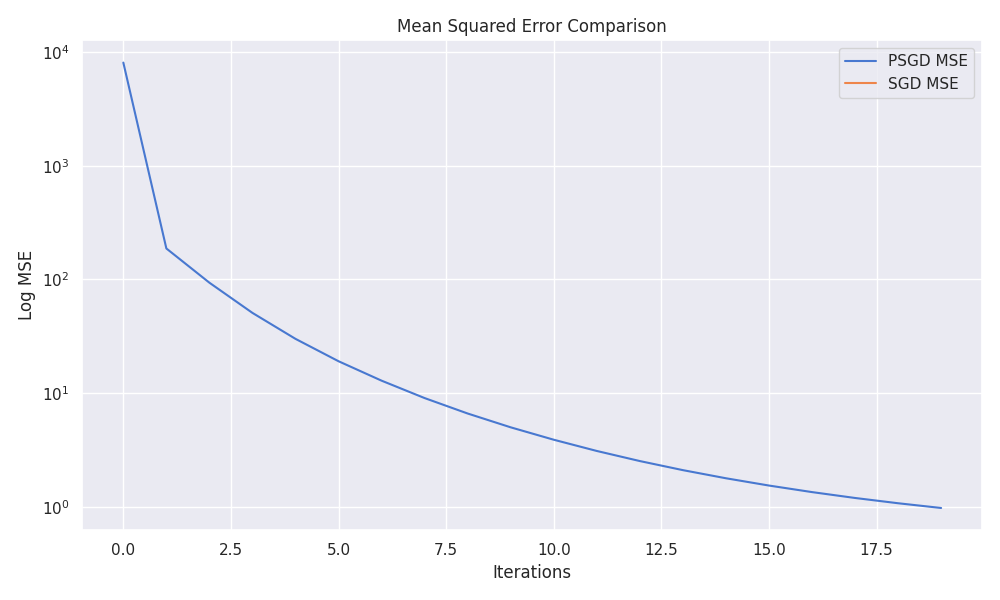
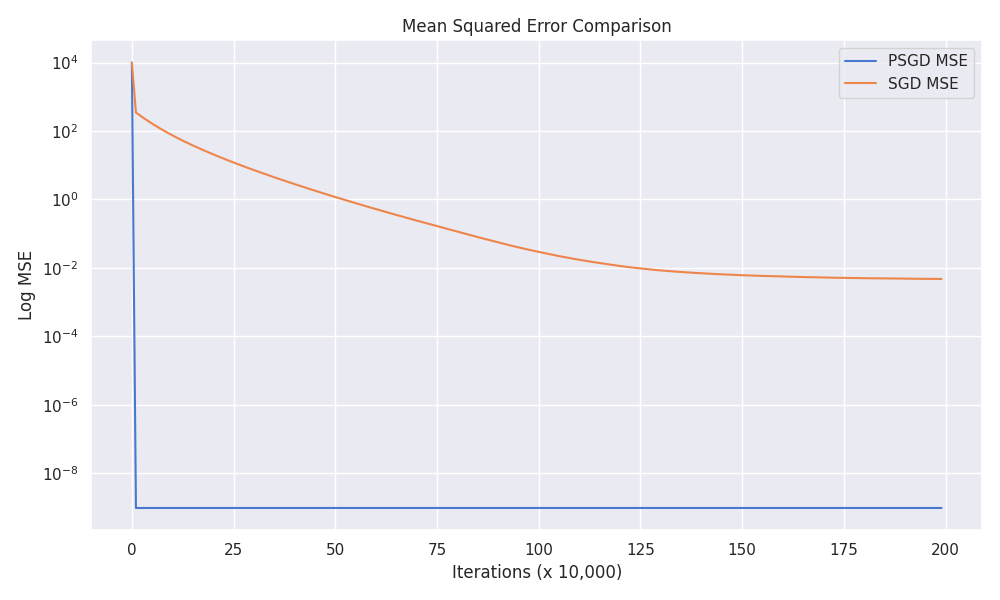
had to reduce lr of sgd to 1e-6 to be able to reduce

diff --git a/regression_weibull.py b/regression_weibull.py
@@ -73,7 +73,7 @@ smallLinear = linearRegression(d)
 smallLinear.to_device(device)  # Move model to the appropriate device
 # torch.nn.init.normal_(smallLinear.linear.weight, mean=0, std=0.01)
 torch.nn.init.orthogonal_(smallLinear.linear.weight, gain=1)
-num_epochs = 200_000
+num_epochs = 2_000_000
 ###### SGD ######
 print("Starting SGD")
 print("-"*10)
@@ -139,13 +139,12 @@ for epoch in range(num_epochs):
     if epoch % 10_000 == 0:
         print(f'Epoch {epoch}: Loss = {loss.item()}')
         psgd_mse.append(loss.detach().cpu().item())
-    optimizer.lr_params *= (0.1) ** (1 / (num_epochs-1))
-    optimizer.lr_preconditioner *= (0.1) ** (1 / (num_epochs-1))
+    optimizer.lr_params *= (0.1) ** (1 / (num_epochs//100-1))
+    optimizer.lr_preconditioner *= (0.1) ** (1 / (num_epochs//100-1))
 
 print('Training complete')
 
 #%%
-
 sns.set_theme(style="darkgrid", palette="muted")
 # Create subplots
 fig, ax = plt.subplots(figsize=(10, 6))
@@ -156,13 +155,10 @@ sns.lineplot(x=np.arange(len(sgd_mse)), y=sgd_mse, ax=ax, label="SGD MSE")
 ax.set_yscale('log')  # Set the y-axis to a logarithmic scale
 
 ax.set_title("Mean Squared Error Comparison")
-ax.set_xlabel("Iterations")
+ax.set_xlabel("Iterations (x 10,000)")
 ax.set_ylabel("Log MSE")
 ax.legend()
 
 plt.tight_layout()
 plt.savefig("mse_comparison_log_weibull.png")
 plt.show()
-
-
-# %%

diff --git a/README.md b/README.md
@@ -17,5 +17,5 @@ PSGD significantly outperforms SGD for non-isotropic data
 PSGD performs the same as SGD for isotropic gaussian data
 <img src="mse_comparison_log.png" width=90% height=90%>
 
-PSGD converges faster than SGD for non-isotropic data -- SGD is taking soooooo long.....
+PSGD converges faster than SGD for non-isotropic data and to a much better solution
 <img src="mse_comparison_log_weibull.png" width=90% height=90%>
